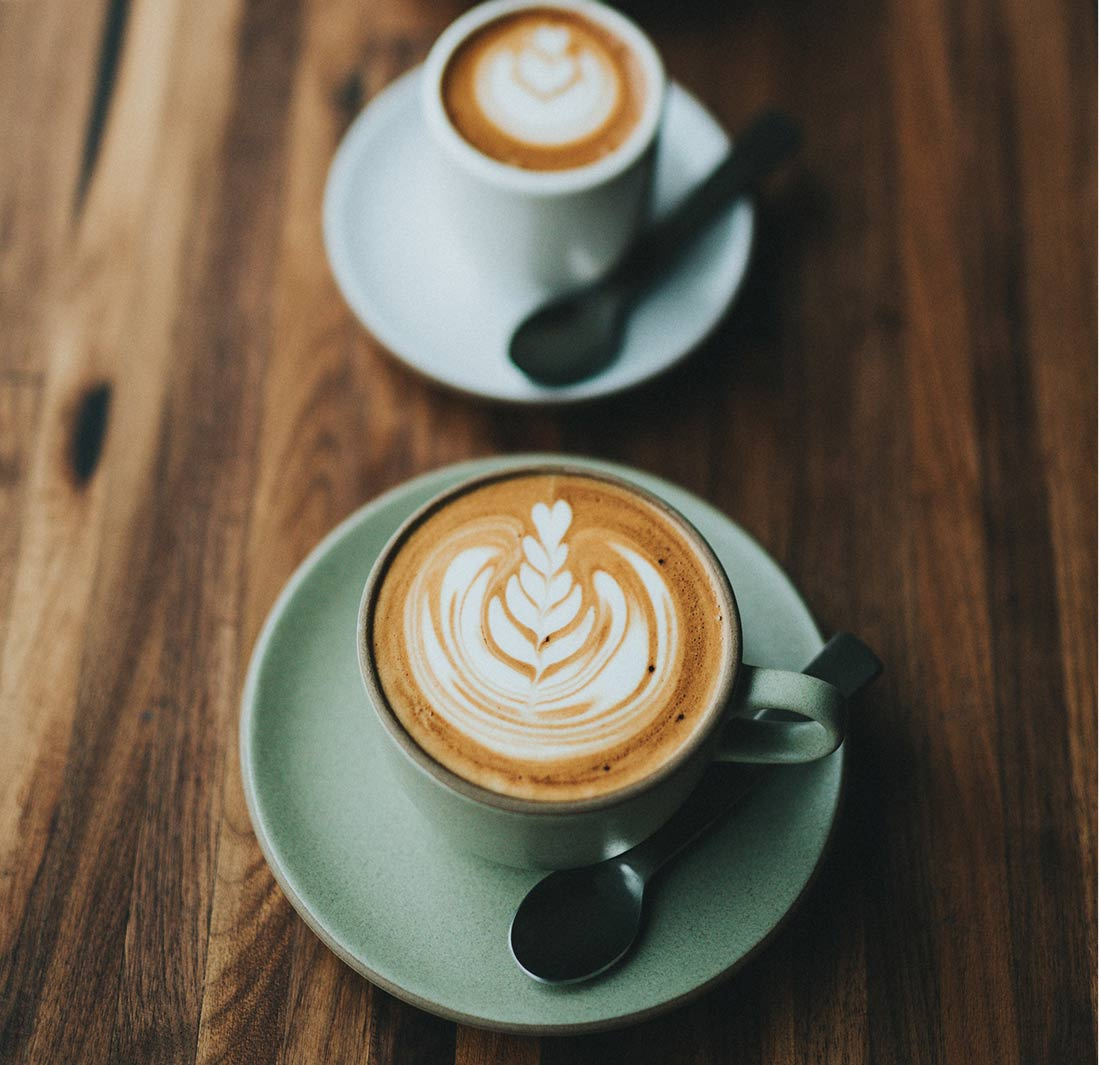
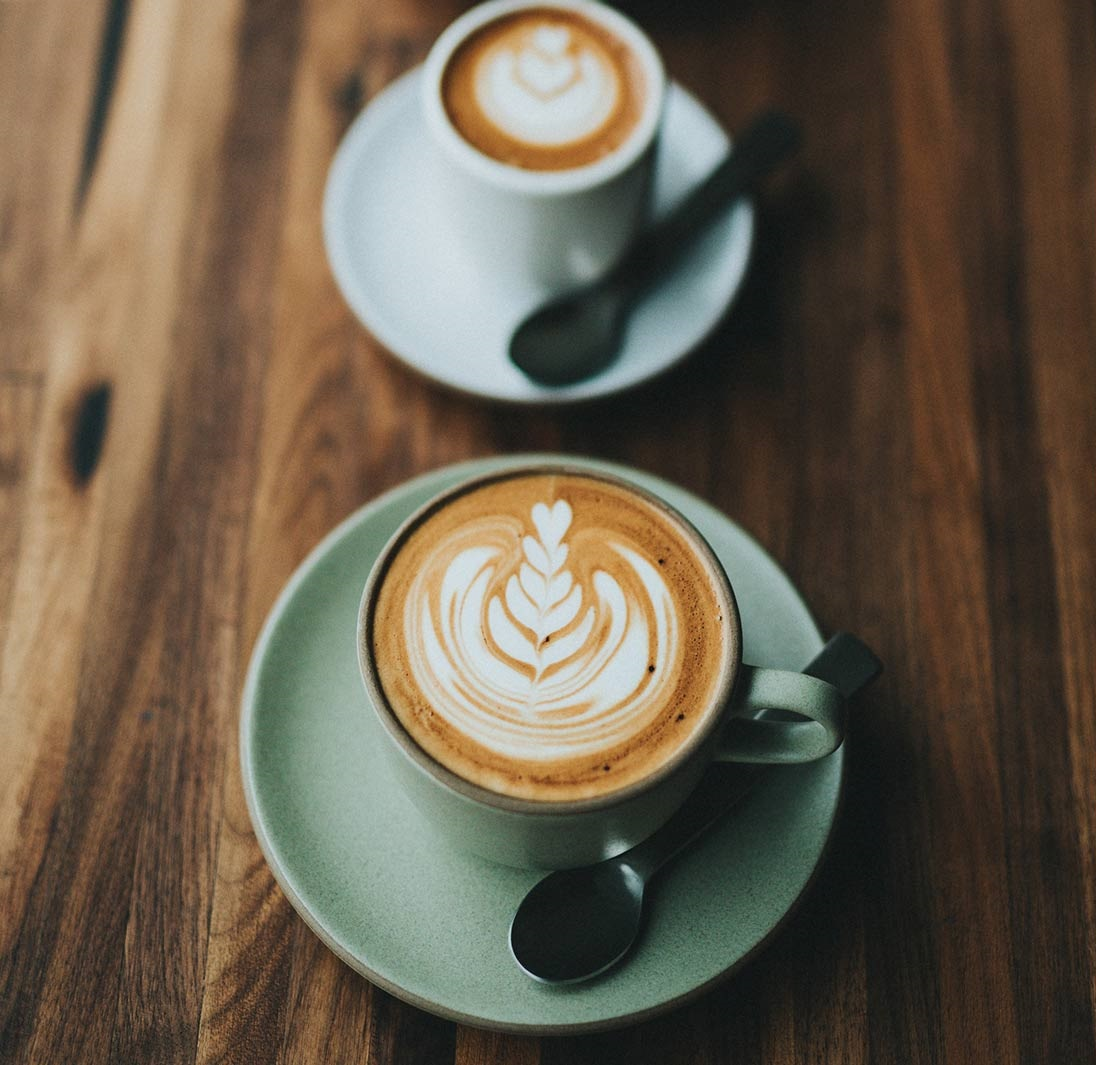
detalle en movil y imagen nueva subida

diff --git a/scss/parciales/_media-querys.scss b/scss/parciales/_media-querys.scss
@@ -266,8 +266,6 @@ color:$colorPrincipal;
         position: relative;
         vertical-align: middle;
         border: 0px;
-        margin-top: 2rem;
-        margin-bottom: 2rem;
     }
     
     .box .infor {

diff --git a/css/estilos.css b/css/estilos.css
@@ -928,8 +928,6 @@ footer {
     position: relative;
     vertical-align: middle;
     border: 0px;
-    margin-top: 2rem;
-    margin-bottom: 2rem;
   }
   .box .infor {
     text-align: center;
